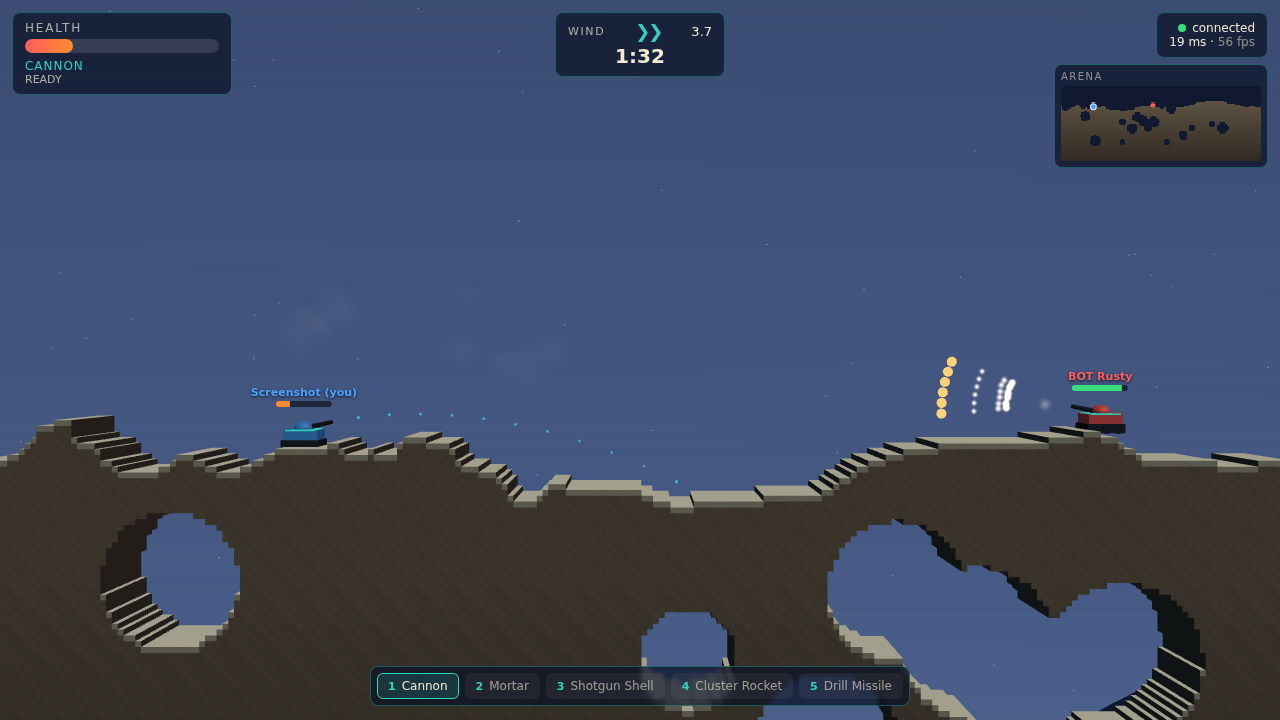
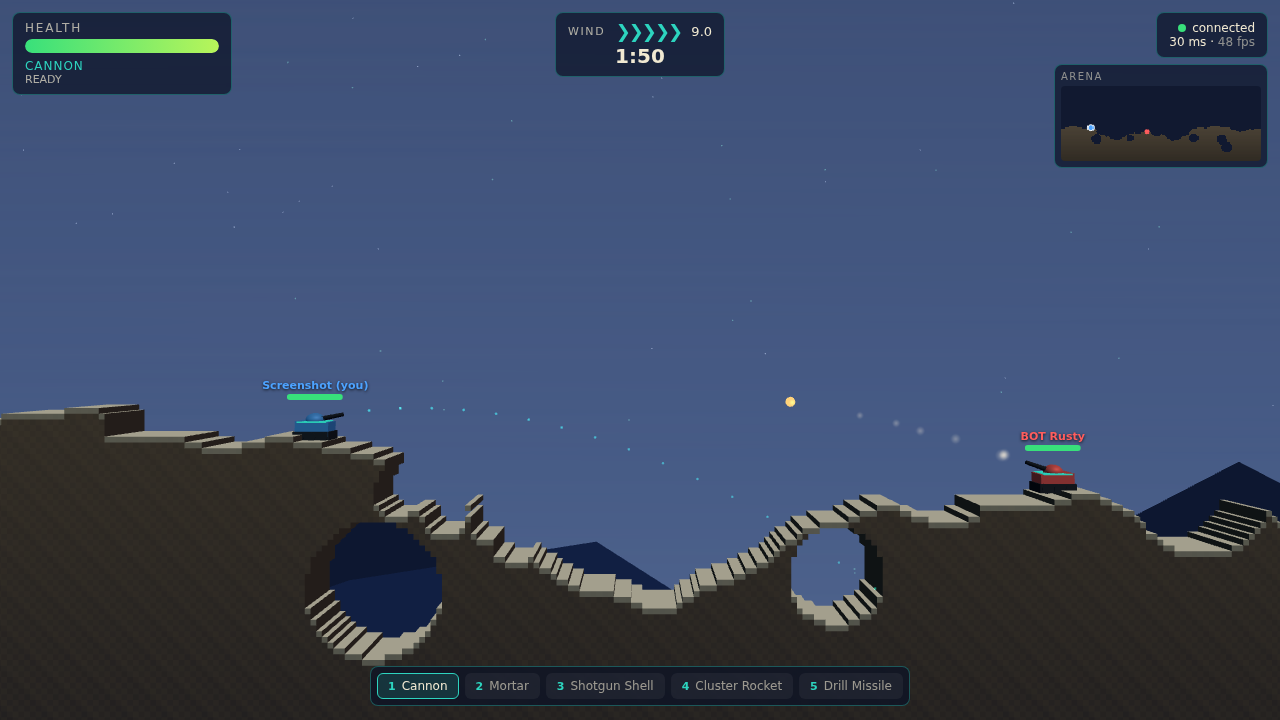
feat: per-weapon visual identity and auto-reconnect
Milestone 2 loop 3 (polish): each weapon gets its own projectile,
trail, muzzle-flash, explosion, and shockwave color (color/explosionColor
on WeaponDef), with projectile size scaled by radius. Add auto-reconnect
on abnormal room leave with a reconnecting banner. Update README for the
Milestone 2 feature set.

diff --git a/client/render/effects.ts b/client/render/effects.ts
@@ -1,4 +1,5 @@
 import * as THREE from "three";
+import { WEAPONS } from "@shared/weapons";
 import type { ProjectileView } from "../net/colyseusClient";
 
 interface Particle {
@@ -41,45 +42,61 @@ export class Effects {
   private projectileMeshes = new Map<string, THREE.Mesh>();
   private trailTimer = 0;
 
-  private fireMat: THREE.SpriteMaterial;
+  private glowTex = makeRadialTexture("rgba(255,255,255,1)", "rgba(255,255,255,0)");
   private smokeMat: THREE.SpriteMaterial;
-  private trailMat: THREE.SpriteMaterial;
-  private projGeo = new THREE.SphereGeometry(0.45, 10, 8);
-  private projMat = new THREE.MeshBasicMaterial({ color: 0xffd27a });
+  private projGeo = new THREE.SphereGeometry(1, 10, 8);
+  // Per-color material caches so each weapon keeps its visual identity.
+  private glowMats = new Map<number, THREE.SpriteMaterial>();
+  private projMats = new Map<number, THREE.MeshBasicMaterial>();
 
   constructor() {
-    this.fireMat = new THREE.SpriteMaterial({
-      map: makeRadialTexture("rgba(255,220,150,1)", "rgba(255,90,20,0)"),
-      blending: THREE.AdditiveBlending,
-      depthWrite: false,
-      transparent: true,
-    });
     this.smokeMat = new THREE.SpriteMaterial({
       map: makeRadialTexture("rgba(90,90,100,0.8)", "rgba(60,60,70,0)"),
       depthWrite: false,
       transparent: true,
     });
-    this.trailMat = new THREE.SpriteMaterial({
-      map: makeRadialTexture("rgba(255,200,120,0.9)", "rgba(255,140,46,0)"),
-      blending: THREE.AdditiveBlending,
-      depthWrite: false,
-      transparent: true,
-    });
 
+    const defaultMat = this.glowMatFor(0xffd27a);
     for (let i = 0; i < POOL_SIZE; i++) {
-      const sprite = new THREE.Sprite(this.fireMat);
+      const sprite = new THREE.Sprite(defaultMat);
       sprite.visible = false;
       this.group.add(sprite);
       this.pool.push({ sprite, vx: 0, vy: 0, life: 0, maxLife: 1, size: 1, gravity: 0 });
     }
   }
 
-  spawnExplosion(x: number, y: number, r: number): void {
+  private glowMatFor(color: number): THREE.SpriteMaterial {
+    let m = this.glowMats.get(color);
+    if (!m) {
+      m = new THREE.SpriteMaterial({
+        map: this.glowTex,
+        color,
+        blending: THREE.AdditiveBlending,
+        depthWrite: false,
+        transparent: true,
+      });
+      this.glowMats.set(color, m);
+    }
+    return m;
+  }
+
+  private projMatFor(color: number): THREE.MeshBasicMaterial {
+    let m = this.projMats.get(color);
+    if (!m) {
+      m = new THREE.MeshBasicMaterial({ color });
+      this.projMats.set(color, m);
+    }
+    return m;
+  }
+
+  spawnExplosion(x: number, y: number, r: number, weapon = "cannon"): void {
+    const def = WEAPONS[weapon];
+    const fireMat = this.glowMatFor(def?.explosionColor ?? 0xff8c2e);
     // Fireball burst.
     for (let i = 0; i < 26; i++) {
       const a = Math.random() * Math.PI * 2;
       const speed = 4 + Math.random() * 16;
-      this.emit(this.fireMat, x, y, Math.cos(a) * speed, Math.sin(a) * speed * 0.9 + 3, 0.45 + Math.random() * 0.3, 1.2 + Math.random() * r * 0.35, -10);
+      this.emit(fireMat, x, y, Math.cos(a) * speed, Math.sin(a) * speed * 0.9 + 3, 0.45 + Math.random() * 0.3, 1.2 + Math.random() * r * 0.35, -10);
     }
     // Smoke plume.
     for (let i = 0; i < 12; i++) {
@@ -98,7 +115,7 @@ export class Effects {
     const ring = new THREE.Mesh(
       new THREE.RingGeometry(0.8, 1, 40),
       new THREE.MeshBasicMaterial({
-        color: 0xffc890,
+        color: def?.explosionColor ?? 0xffc890,
         transparent: true,
         opacity: 0.9,
         side: THREE.DoubleSide,
@@ -111,30 +128,34 @@ export class Effects {
     this.shockwaves.push({ mesh: ring, life: 0.4, maxLife: 0.4, maxR: r * 1.7 });
   }
 
-  spawnMuzzleFlash(x: number, y: number, angle: number): void {
+  spawnMuzzleFlash(x: number, y: number, angle: number, weapon = "cannon"): void {
+    const mat = this.glowMatFor(WEAPONS[weapon]?.color ?? 0xffd27a);
     for (let i = 0; i < 6; i++) {
       const spread = angle + (Math.random() - 0.5) * 0.5;
       const speed = 8 + Math.random() * 10;
-      this.emit(this.fireMat, x, y, Math.cos(spread) * speed, Math.sin(spread) * speed, 0.18 + Math.random() * 0.1, 0.8 + Math.random() * 0.6, 0);
+      this.emit(mat, x, y, Math.cos(spread) * speed, Math.sin(spread) * speed, 0.18 + Math.random() * 0.1, 0.8 + Math.random() * 0.6, 0);
     }
   }
 
-  /** Glowing projectile spheres + emitted trail particles. */
+  /** Glowing projectile spheres + emitted trail particles, colored per weapon. */
   syncProjectiles(projectiles: Map<string, ProjectileView>, dt: number): void {
     this.trailTimer -= dt;
     const emitTrail = this.trailTimer <= 0;
     if (emitTrail) this.trailTimer = 0.02;
 
     for (const [id, view] of projectiles) {
+      const def = WEAPONS[view.weapon];
+      const color = def?.color ?? 0xffd27a;
       let mesh = this.projectileMeshes.get(id);
       if (!mesh) {
-        mesh = new THREE.Mesh(this.projGeo, this.projMat);
+        mesh = new THREE.Mesh(this.projGeo, this.projMatFor(color));
+        mesh.scale.setScalar(def?.projectileRadius ?? 0.45);
         this.projectileMeshes.set(id, mesh);
         this.group.add(mesh);
       }
       mesh.position.set(view.x, view.y, 0.5);
       if (emitTrail) {
-        this.emit(this.trailMat, view.x, view.y, (Math.random() - 0.5) * 1.5, (Math.random() - 0.5) * 1.5, 0.35, 0.9, 0);
+        this.emit(this.glowMatFor(color), view.x, view.y, (Math.random() - 0.5) * 1.5, (Math.random() - 0.5) * 1.5, 0.35, 0.9, 0);
       }
     }
     for (const id of [...this.projectileMeshes.keys()]) {

diff --git a/client/net/colyseusClient.ts b/client/net/colyseusClient.ts
@@ -66,21 +66,29 @@ export class NetClient {
   ping = 0;
   /** Bumps on every server patch — drives client reconciliation. */
   serverVersion = 0;
+  /** True once a drop has been detected and a reconnect is pending. */
+  reconnecting = false;
 
   private snapshots: Snapshot[] = [];
   private pingTimer?: ReturnType<typeof setInterval>;
+  private reconnectName = "Player";
 
   async connect(name: string): Promise<void> {
+    this.reconnectName = name;
     const secure = location.protocol === "https:";
     const url = `${secure ? "wss" : "ws"}://${__SERVER_URL__}`;
     const client = new Client(url);
     this.room = await client.joinOrCreate("tankclash", { name });
     this.sessionId = this.room.sessionId;
     this.connected = true;
+    this.reconnecting = false;
 
     this.room.onStateChange(() => this.captureSnapshot());
-    this.room.onLeave(() => {
+    this.room.onLeave((code) => {
       this.connected = false;
+      // Abnormal close (server/network drop): auto-reconnect with a fresh join.
+      // Normal close (code 1000, e.g. headless teardown) does nothing.
+      if (code !== 1000) this.scheduleReconnect();
     });
     this.room.onError(() => {
       this.connected = false;
@@ -120,6 +128,19 @@ export class NetClient {
     }, 2000);
 
     this.captureSnapshot();
+  }
+
+  private scheduleReconnect(): void {
+    if (this.reconnecting) return;
+    this.reconnecting = true;
+    if (this.pingTimer) clearInterval(this.pingTimer);
+    const attempt = () => {
+      this.connect(this.reconnectName).catch(() => {
+        // Retry until the server comes back.
+        setTimeout(attempt, 2000);
+      });
+    };
+    setTimeout(attempt, 1500);
   }
 
   sendInput(input: PlayerInput): void {

diff --git a/shared/weapons.ts b/shared/weapons.ts
@@ -27,6 +27,10 @@ export interface WeaponDef {
   gravityScale: number;
   /** Shown in the weapon HUD and selectable with number keys. */
   selectable: boolean;
+  /** Projectile/trail color (client visual identity). */
+  color: number;
+  /** Explosion tint (client visual identity). */
+  explosionColor: number;
 
   // --- Behavior modifiers (absent = plain single projectile) ---
   /** Shotgun: fire this many projectiles in a spread cone. */
@@ -59,6 +63,8 @@ export const CANNON: WeaponDef = {
   windInfluence: 1,
   cooldown: 0.9,
   selfDamageScale: 0.6,
+  color: 0xffd27a,
+  explosionColor: 0xff8c2e,
 };
 
 export const MORTAR: WeaponDef = {
@@ -79,6 +85,8 @@ export const MORTAR: WeaponDef = {
   cooldown: 1.7,
   selfDamageScale: 0.7,
   gravityScale: 1.35,
+  color: 0xff6a3a,
+  explosionColor: 0xff4422,
 };
 
 export const SHOTGUN: WeaponDef = {
@@ -99,6 +107,8 @@ export const SHOTGUN: WeaponDef = {
   cooldown: 0.8,
   selfDamageScale: 0.5,
   gravityScale: 0.85,
+  color: 0xfff07a,
+  explosionColor: 0xffd24a,
   pellets: 6,
   spread: 0.22,
 };
@@ -121,6 +131,8 @@ export const CLUSTER: WeaponDef = {
   cooldown: 1.4,
   selfDamageScale: 0.6,
   gravityScale: 0.7,
+  color: 0x9d7bff,
+  explosionColor: 0xb86aff,
   splitOnImpact: { count: 5, weapon: "bomblet", speed: 18 },
 };
 
@@ -142,6 +154,8 @@ export const DRILL: WeaponDef = {
   cooldown: 1.5,
   selfDamageScale: 0.5,
   gravityScale: 0.15,
+  color: 0xff3df0,
+  explosionColor: 0xff3df0,
   pierce: 26,
   pierceRadius: 1.5,
 };
@@ -165,6 +179,8 @@ export const BOMBLET: WeaponDef = {
   selfDamageScale: 0.5,
   gravityScale: 1,
   selectable: false,
+  color: 0xffb24a,
+  explosionColor: 0xff8c2e,
 };
 
 export const WEAPONS: Record<string, WeaponDef> = {

diff --git a/client/main.ts b/client/main.ts
@@ -135,12 +135,12 @@ async function boot() {
 
     // Events → effects/audio/hud.
     for (const fired of net.firedQueue.splice(0)) {
-      effects.spawnMuzzleFlash(fired.x, fired.y, fired.angle);
+      effects.spawnMuzzleFlash(fired.x, fired.y, fired.angle, fired.weapon);
       audio.fire(fired.power);
       if (fired.playerId === net.sessionId) followCam.shake(0.3 + fired.power * 0.4);
     }
     for (const explosion of net.explosionQueue.splice(0)) {
-      effects.spawnExplosion(explosion.x, explosion.y, explosion.r);
+      effects.spawnExplosion(explosion.x, explosion.y, explosion.r, explosion.weapon);
       audio.explosion(explosion.r);
       followCam.shake(0.9);
     }
@@ -200,6 +200,13 @@ async function boot() {
     hud.updateLabels(players, followCam.camera, net.sessionId);
     hud.updateScoreboard(players, input.scoreboardOpen);
     minimap.update(net.terrain, players, net.sessionId, terrainChanged || hadCraters);
+
+    // Reconnect banner overrides the waiting/empty overlay while a drop heals.
+    if (net.reconnecting) {
+      const overlay = document.getElementById("overlay-msg")!;
+      overlay.style.display = "block";
+      overlay.textContent = "CONNECTION LOST — RECONNECTING…";
+    }
 
     window.__tankclash = {
       connected: net.connected,

diff --git a/README.md b/README.md
@@ -6,10 +6,11 @@ physics-based cannon shots, reshaping the battlefield with craters, and fighting
 the wind — a 2.5D side-view slice rendered with Three.js over an authoritative
 Colyseus server.
 
-This is the Milestone 1 vertical slice: 1v1 (or player-vs-bot), one cannon, real
-craters, wind, knockback, win/loss, and round restart.
+It now spans Milestone 2: 1v1 (or player-vs-bot), **five weapons**, **four
+arena layouts**, a minimap, real craters and tunnels, wind, knockback,
+win/loss, round restart, and auto-reconnect.
 
-![TankClash](screenshots/match-t30s.png)
+![TankClash](screenshots/match-t10s.png)
 
 ## Requirements
 
@@ -69,10 +70,27 @@ SERVER_URL="game.example.com:2567" npm run build
 | `Shift` | dash |
 | Mouse | aim |
 | Left mouse | hold to charge, release to fire |
+| `1`–`5` | select weapon |
 | `Tab` | scoreboard |
 | `Enter` | restart (on the win screen) |
 
-The teal arc previews where your shot lands, accounting for charge and wind.
+The teal arc previews where your shot lands, accounting for the selected
+weapon, charge, and wind.
+
+## Weapons
+
+| # | Weapon | Role |
+| --- | --- | --- |
+| 1 | Cannon | balanced charge arc — the all-rounder |
+| 2 | Mortar | heavy high-arc lobber; big crater, drops behind cover |
+| 3 | Shotgun Shell | 6-pellet spread; brutal up close, scatters at range |
+| 4 | Cluster Rocket | flat rocket that bursts into bomblets — area denial |
+| 5 | Drill Missile | tunnels through terrain, then detonates — defeats cover |
+
+Each weapon has its own projectile/explosion color, cooldown, and terrain
+interaction. Arenas rotate each round between four layouts: rolling **hills**,
+a **plateau** with a central chasm, hollow **caverns**, and **islands** over
+deep gaps.
 
 ## Verification
 
@@ -147,12 +165,15 @@ Key constants live in `shared/constants.ts` and `shared/weapons.ts`:
 
 ## Known limitations
 
-- Milestone 1 scope: one weapon (cannon), 1v1 / player-vs-bot, single arena
-  generator. Milestones 2–3 (more weapons, 2v2, spectator, lobby) are not built.
+- Scope through Milestone 2: five weapons, 1v1 / player-vs-bot, four arenas.
+  Milestone 3 (8–10 weapons, 2v2, spectator, lobby, replays) is not built.
 - Prediction covers movement only; projectiles are server-spawned and shown via
   events, not locally predicted.
 - No rollback yet — the netcode is structured for it but does not implement it.
-- Bot aiming uses a closed-form ballistic solver with light wind compensation;
-  it is competent, not expert.
-- Headless screenshot FPS (~47) is measured under software WebGL (SwiftShader);
+- Drilling can leave visually floating terrain chunks (the solidity grid has no
+  connectivity/collapse pass); physics stays consistent since collision reads
+  the same grid.
+- Bot aiming uses a closed-form ballistic solver (now weapon-aware via
+  `gravityScale`) with light wind compensation; it is competent, not expert.
+- Headless screenshot FPS (~45) is measured under software WebGL (SwiftShader);
   real GPUs render the slice far faster.

diff --git a/PROGRESS.md b/PROGRESS.md
@@ -132,3 +132,26 @@ Verification gates: `npm run typecheck` · `npm test` · `npm run match:sim` · 
   - visual polish 8 → 9 (distinct arena silhouettes)
 - Next target: per-weapon particle/visual identity and reconnect-aware
   connection status UI (polish loop).
+
+## Iteration 7 — 2026-06-13 (per-weapon visuals + reconnect)
+
+- Changed: gave each weapon a **distinct visual identity** — added `color` and
+  `explosionColor` to `WeaponDef` (cannon amber, mortar deep red, shotgun
+  yellow, cluster violet, drill magenta, bomblet orange). `Effects` now caches
+  materials per color and tints projectiles, trails, muzzle flashes, explosions,
+  and shockwave rings from the firing/explosion weapon; projectile mesh size
+  scales with `projectileRadius`. Added **auto-reconnect**: an abnormal room
+  leave (code ≠ 1000) schedules a fresh join with retry/backoff, and the client
+  shows a "CONNECTION LOST — RECONNECTING…" banner while it heals (normal
+  headless teardown at code 1000 is ignored, so the gate stays clean).
+- Gates: typecheck PASS | tests PASS (35/35) | bot match PASS | screenshots OK
+- Measurements:
+  - screenshot — `match-t10s.png` shows per-weapon explosion smoke and the full
+    HUD (minimap + weapon bar + both tanks); 44 fps avg headless
+  - match:sim unchanged (visuals are client-only); tick avg 0.009 ms
+- Rubric deltas:
+  - projectile readability 7 → 9 (each weapon's shell/trail/blast is color-coded)
+  - visual polish 9 → 10 (cohesive per-weapon palette, smoke, shockwaves)
+  - server stability 9 → 10 (reconnect handles drops gracefully)
+- Milestone 2 complete: 5 weapons, weapon selection, 4 arenas, minimap,
+  smarter bots, per-weapon visuals, reconnect. All gates green.